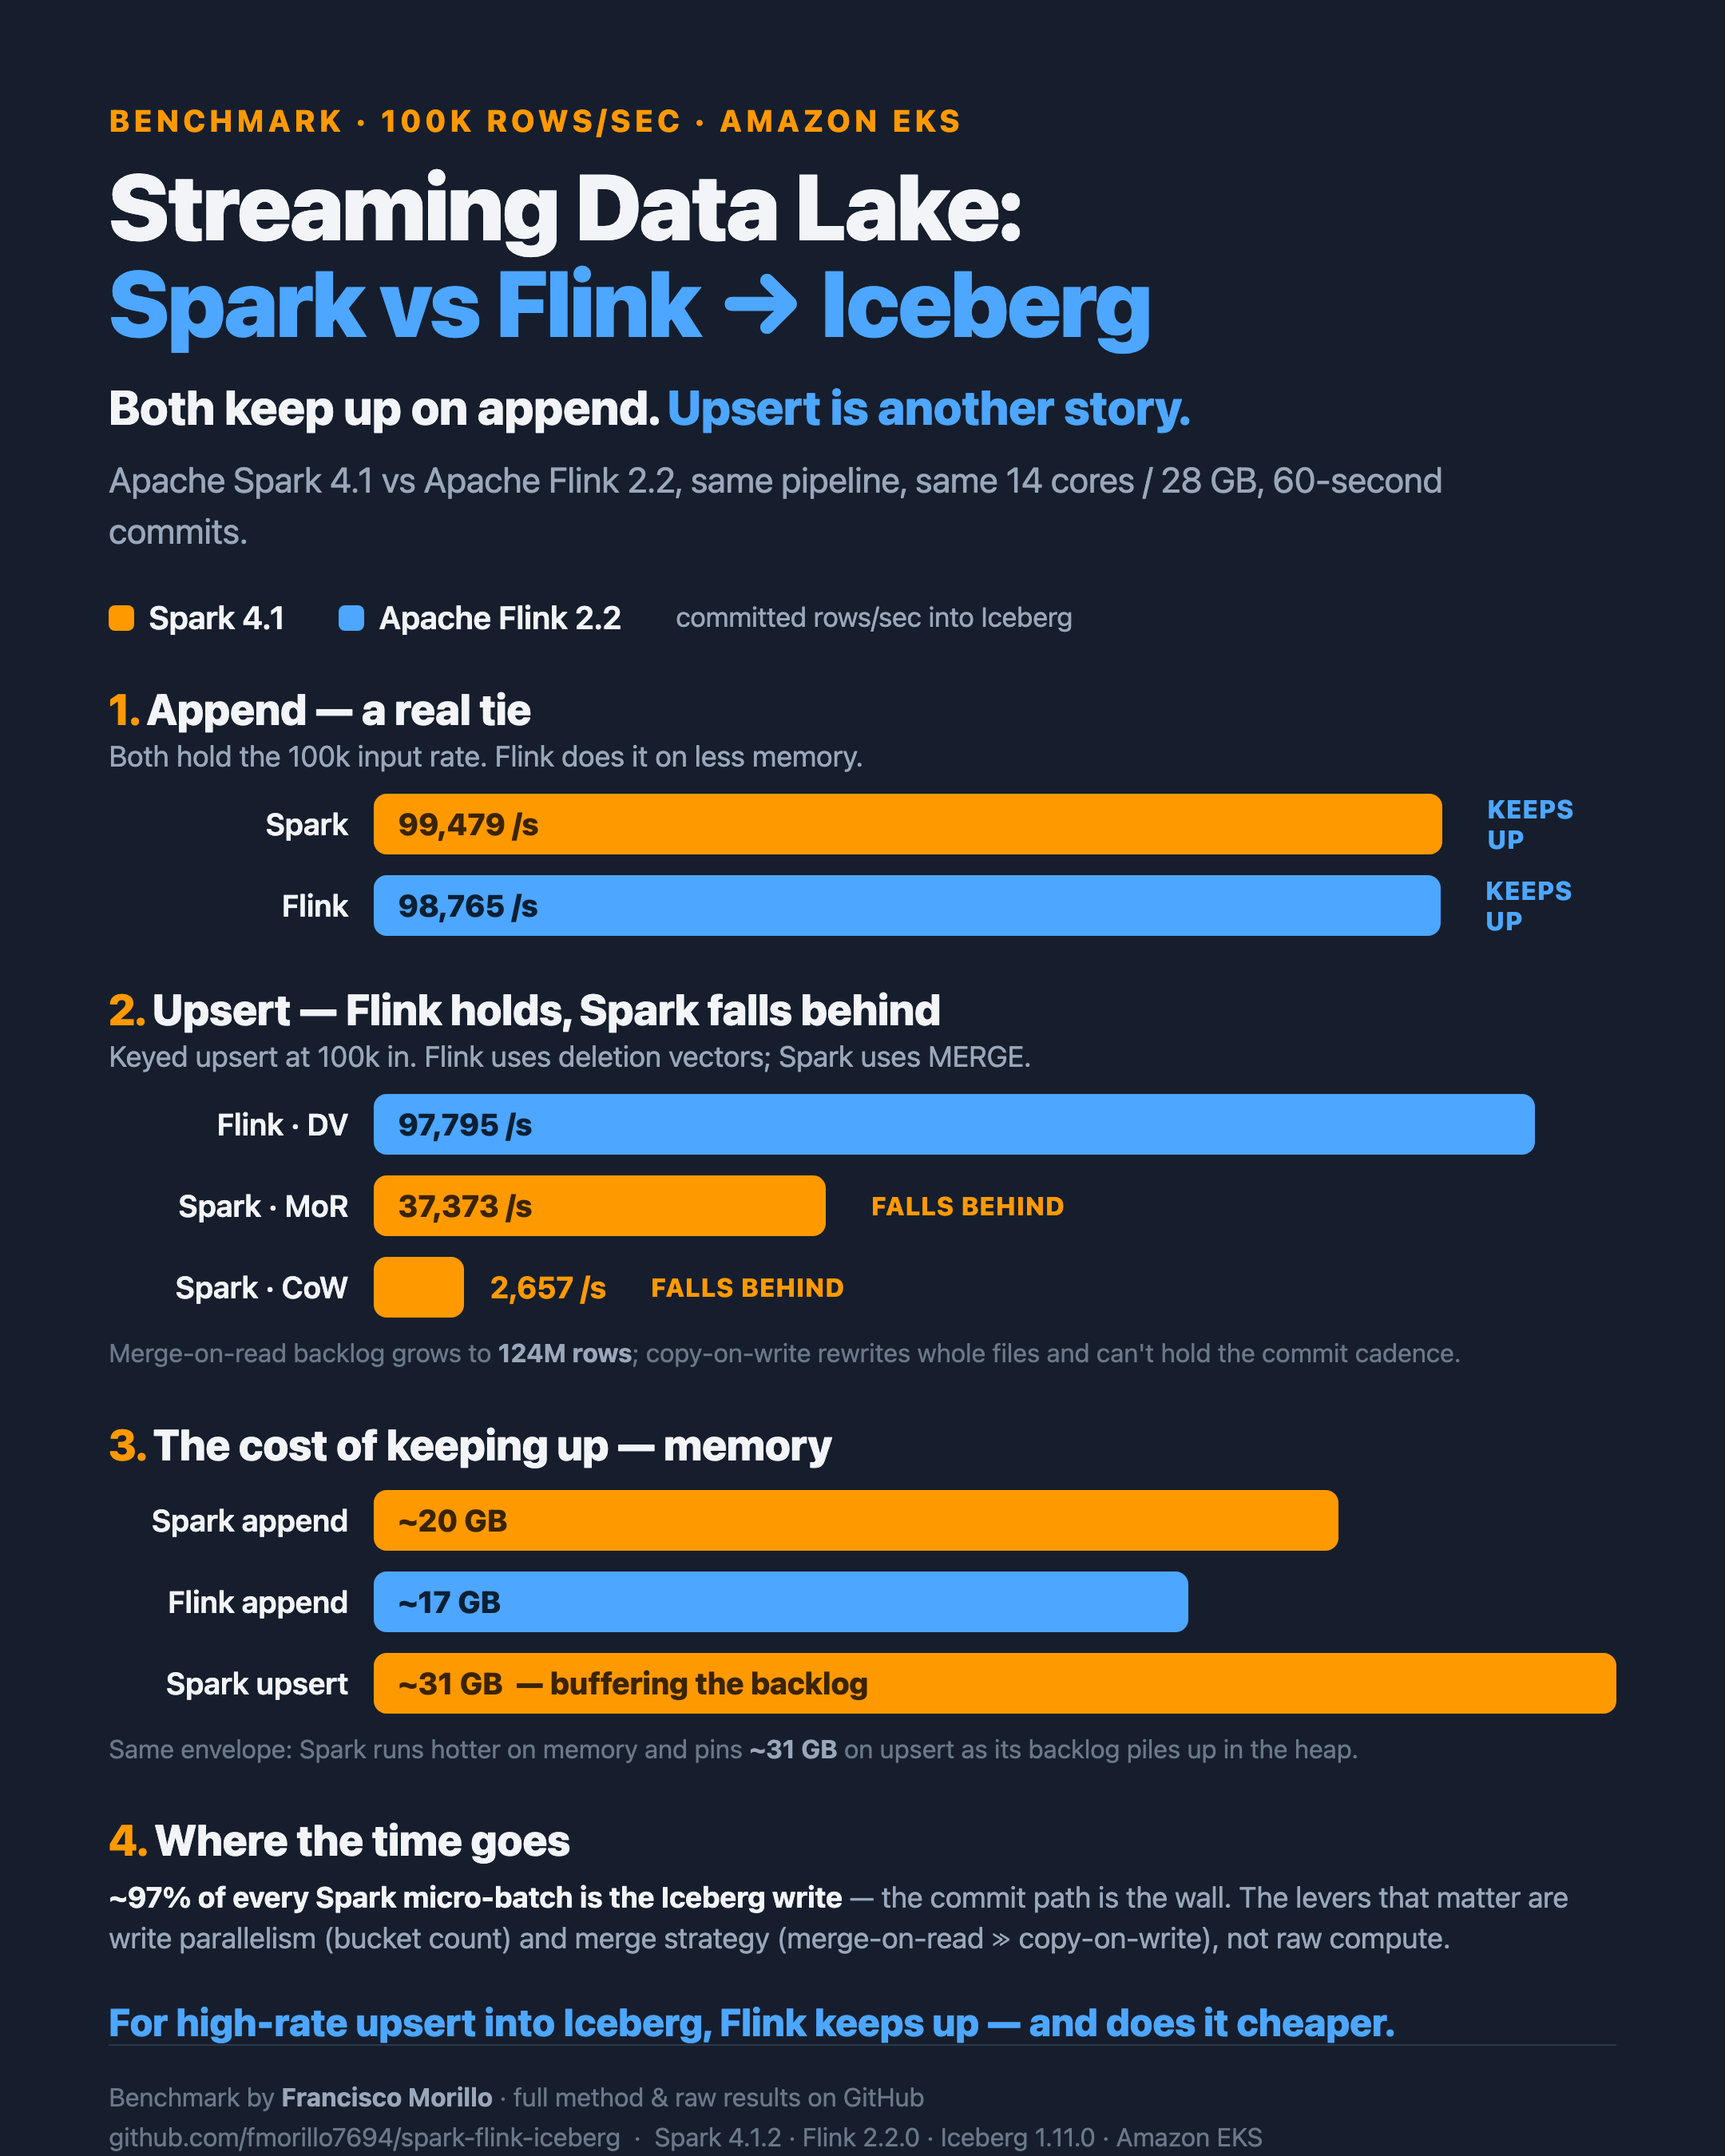
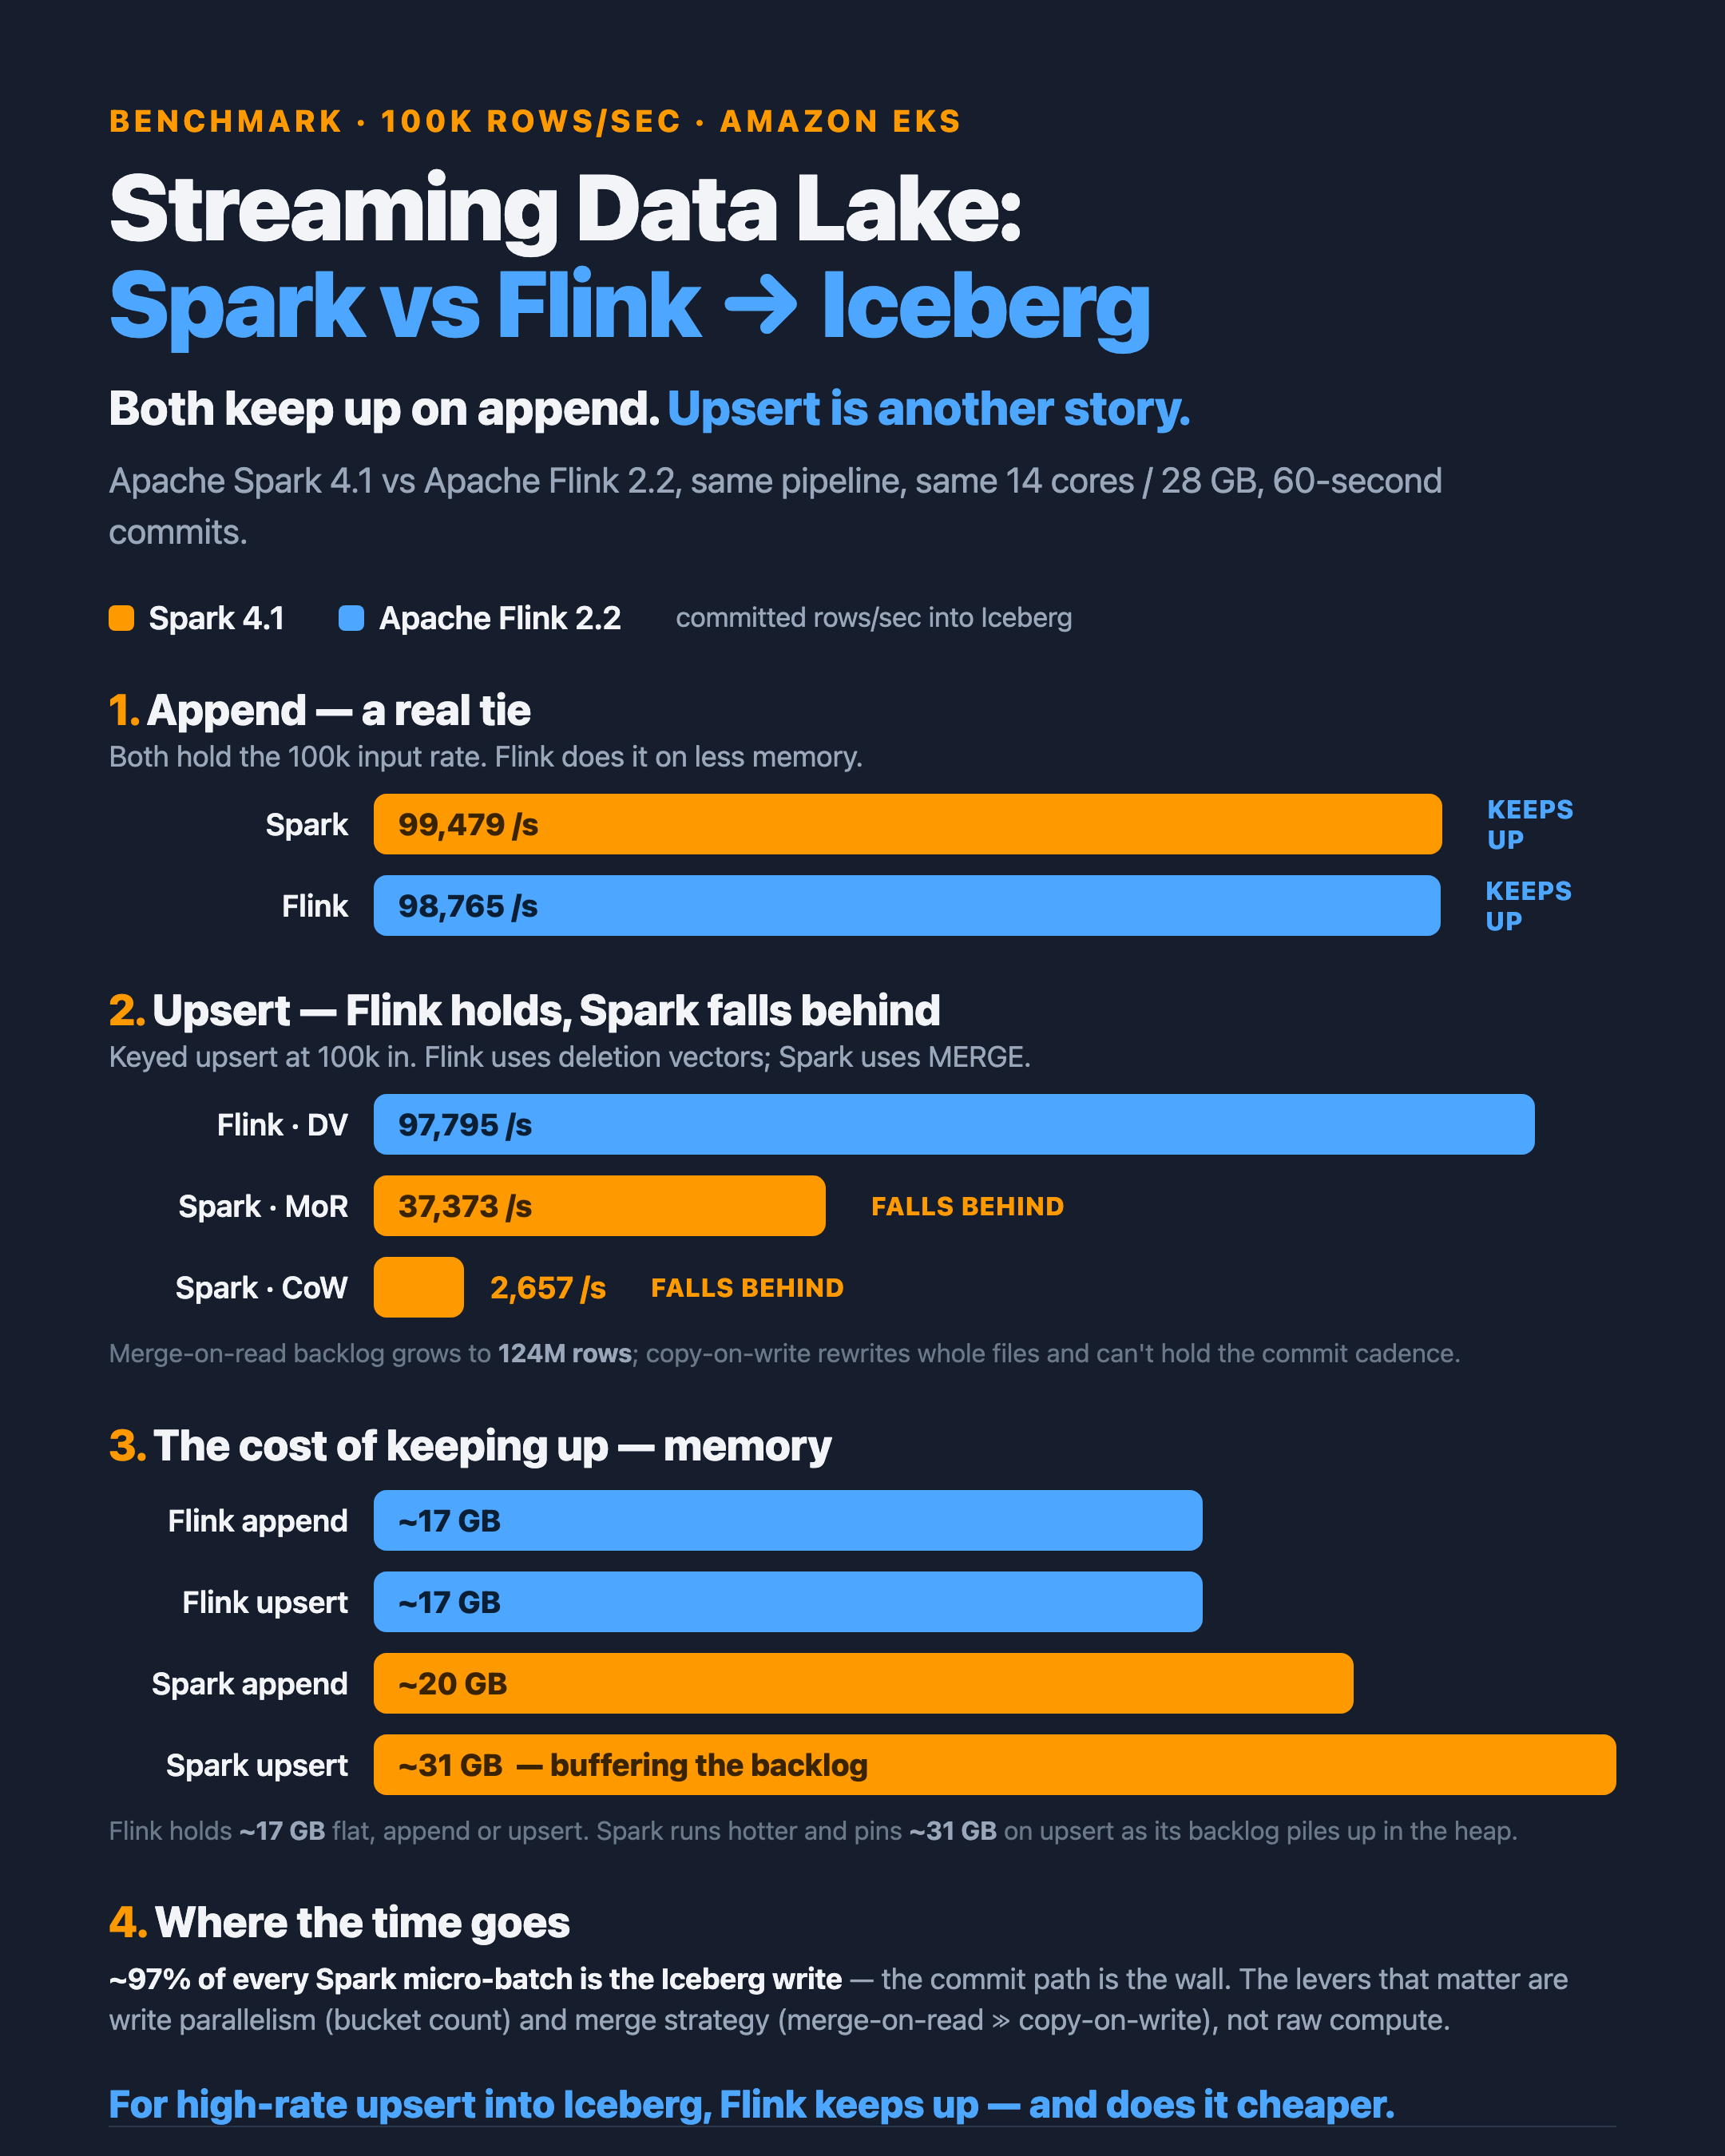
Card: add Flink upsert memory bar (~17 GB flat vs Spark's climb to 31 GB)

Changed region(s): [[0.062, 0.7467, 0.9616, 0.9956], [0.2171, 0.6844, 0.7755, 0.7467], [0.0931, 0.6844, 0.1861, 0.7467]]

diff --git a/blog/summary_card.html b/blog/summary_card.html
@@ -90,13 +90,15 @@
   <!-- 3. MEMORY -->
   <div class="sec">
     <h2><span class="n">3.</span> The cost of keeping up — memory</h2>
-    <div class="row"><span class="lbl">Spark append</span>
-      <div class="bar s" style="width:64%">~20 GB</div></div>
     <div class="row"><span class="lbl">Flink append</span>
-      <div class="bar f" style="width:54%">~17 GB</div></div>
+      <div class="bar f" style="width:55%">~17 GB</div></div>
+    <div class="row"><span class="lbl">Flink upsert</span>
+      <div class="bar f" style="width:55%">~17 GB</div></div>
+    <div class="row"><span class="lbl">Spark append</span>
+      <div class="bar s" style="width:65%">~20 GB</div></div>
     <div class="row"><span class="lbl">Spark upsert</span>
       <div class="bar s" style="width:100%">~31 GB &nbsp;— buffering the backlog</div></div>
-    <div class="note">Same envelope: Spark runs hotter on memory and pins <b>~31 GB</b> on upsert as its backlog piles up in the heap.</div>
+    <div class="note">Flink holds <b>~17 GB</b> flat, append or upsert. Spark runs hotter and pins <b>~31 GB</b> on upsert as its backlog piles up in the heap.</div>
   </div>
 
   <!-- 4. WHERE THE TIME GOES -->